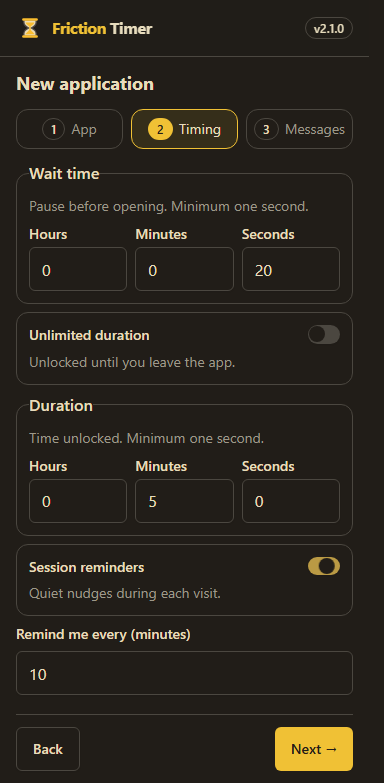
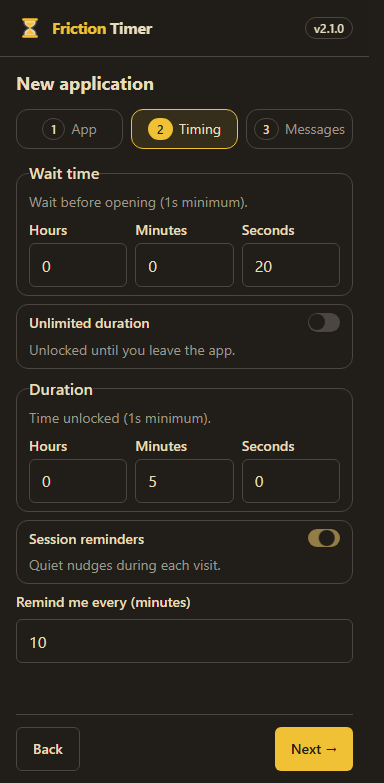
fix: keep timing form compact across system fonts

Changed region(s): [[0.0312, 0.2452, 0.9375, 0.8889]]

diff --git a/src/components/app-form/stages.tsx b/src/components/app-form/stages.tsx
@@ -81,9 +81,9 @@ export function StageTime({ draft, setDraft }: { draft: FrictionAppDraft; setDra
   const [finiteDuration, setFiniteDuration] = useState(draft.durationSeconds || 300)
   return (
     <FieldGroup className="gap-2">
-      <TimeBlock label="Wait time" hint="Pause before opening. Minimum one second." {...wait}
+      <TimeBlock label="Wait time" hint="Wait before opening (1s minimum)." {...wait}
         onChange={(h, m, s) => setDraft((current) => ({ ...current, waitSeconds: hmsToSeconds(h, m, s) }))} />
-      <Field orientation="horizontal" className="relative rounded-xl border p-3">
+      <Field orientation="horizontal" className="relative rounded-xl border px-3 py-2">
         <FieldContent>
           <FieldLabel htmlFor="unlimited">Unlimited duration</FieldLabel>
           <FieldDescription id="unlimited-hint">Unlocked until you leave the app.</FieldDescription>
@@ -93,9 +93,9 @@ export function StageTime({ draft, setDraft }: { draft: FrictionAppDraft; setDra
           setDraft((current) => ({ ...current, durationSeconds: unlimited ? 0 : finiteDuration }))
         }} />
       </Field>
-      {draft.durationSeconds !== 0 && <TimeBlock label="Duration" hint="Time unlocked. Minimum one second." {...duration}
+      {draft.durationSeconds !== 0 && <TimeBlock label="Duration" hint="Time unlocked (1s minimum)." {...duration}
         onChange={(h, m, s) => setDraft((current) => ({ ...current, durationSeconds: hmsToSeconds(h, m, s) }))} />}
-      <Field orientation="horizontal" className="relative rounded-xl border p-3">
+      <Field orientation="horizontal" className="relative rounded-xl border px-3 py-2">
         <FieldContent>
           <FieldLabel htmlFor="session-reminders">Session reminders</FieldLabel>
           <FieldDescription id="session-reminders-hint">Quiet nudges during each visit.</FieldDescription>
@@ -150,7 +150,7 @@ function TimeBlock({ label, hint, h, m, s, onChange }: {
   }
 
   return (
-    <FieldSet className="min-w-0 gap-2 rounded-xl border p-3">
+    <FieldSet className="min-w-0 gap-2 rounded-xl border px-3 py-2">
       <FieldLegend className="mb-1">{label}</FieldLegend>
       <FieldDescription>{hint}</FieldDescription>
       <FieldGroup className="grid grid-cols-3 gap-2">
